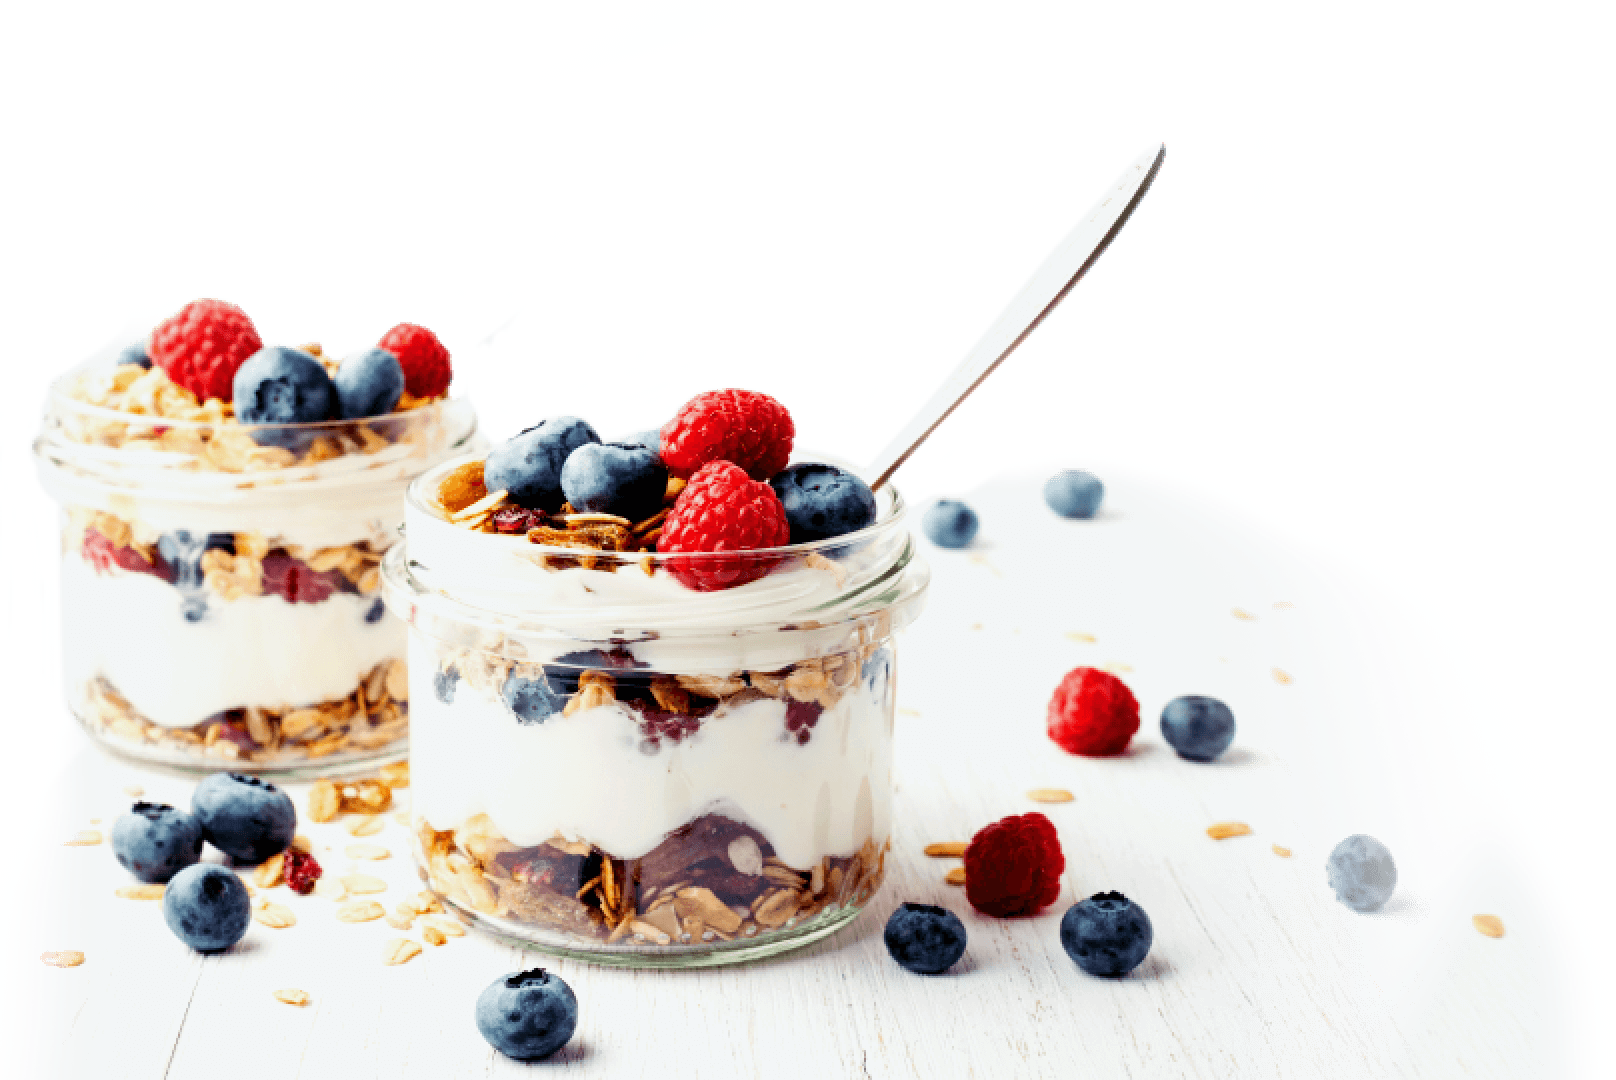
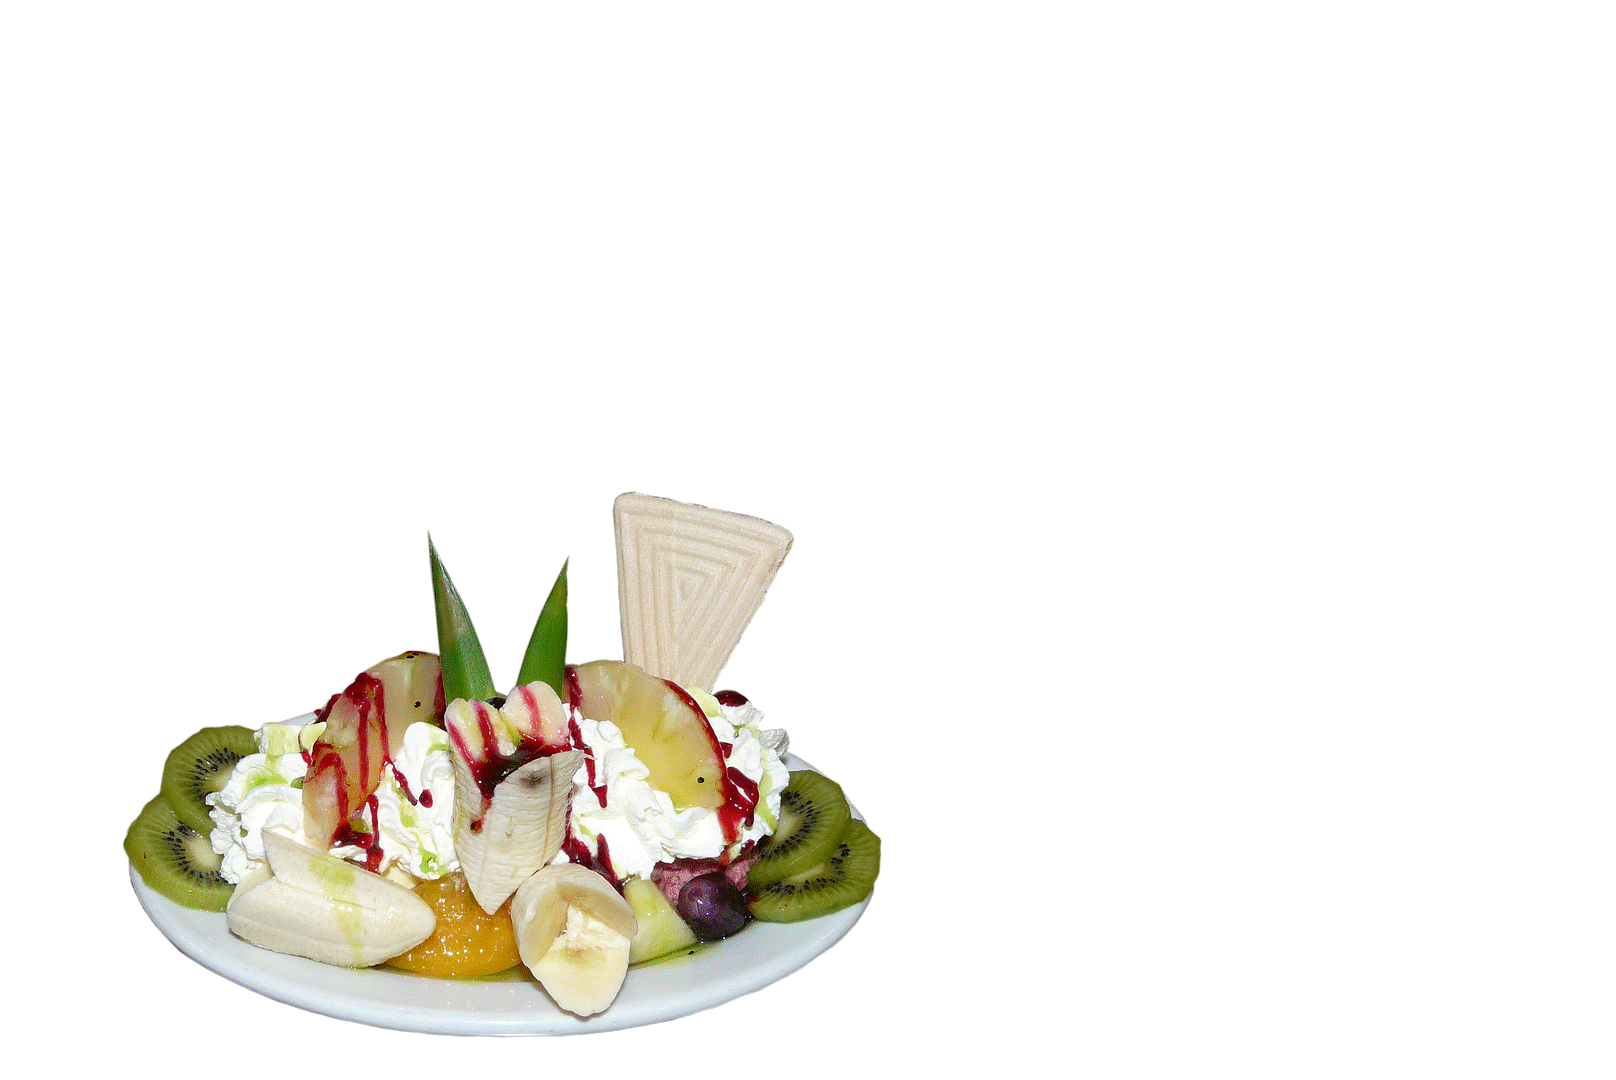
filters

diff --git a/src/app/planner/plannercreate/plannercreate.component.html b/src/app/planner/plannercreate/plannercreate.component.html
@@ -252,7 +252,7 @@
              <div class="submit-recipe-form" style="text-align:left; padding-bottom:10px;  background-color: #f8f6f5;">
                 <div style='text-align:right;'>
                     <a class="copy-button" (click)="downloadplan()"><i class="fa fa-download"></i> Download PDF</a>
-                   &nbsp; <a style="display:none" class="copy-button" (click)="getIngredientsList()"><i class="fa fa-download"></i> Ingredients List</a>
+                   &nbsp; <a  class="copy-button" (click)="getIngredientsList()"><i class="fa fa-download"></i> Ingredients List</a>
                 </div>
 
                 <label for="title">Meal Plan Name</label>
@@ -379,7 +379,7 @@
        <div class="modal-header" style="border-bottom:0px;">
         <h4><b>Ingredients List</b></h4>
         <button type="button" class="close" data-dismiss="modal" aria-label="Close"
-            (click)="closeModal('popuppanel');" style="font-size:40px;color:#FFF;opacity:1">
+            (click)="closeModal('popuppanel');" style="font-size:40px;color:#000;opacity:1">
             <span aria-hidden="true">&times;</span>
         </button>
         </div>

diff --git a/src/app/planner/plannercreate/plannercreate.component.ts b/src/app/planner/plannercreate/plannercreate.component.ts
@@ -67,7 +67,7 @@ export class PlannercreateComponent implements OnInit {
 this.loadedPlan = false;
 		window.addEventListener("scroll", this.scrollFunc);
 		this.getNutrientsMaxMin(); 
-
+		
 		this.searchparam['q'] = "";
 //		this.addRecipeImage = "assets/images/placement_addrecipes@2x.png"
 this.addRecipeImage = "assets/images/add-recipe.png"
@@ -1298,7 +1298,7 @@ console.log(params);
 		{
 			this.mineralsLabelsList.push({"name":constants.minerals[m], "selected":false, "unit":"",  "min":"", "max":"", "t_min":"", "t_max":""})
 		}
-
+		this.loadNutrientsMaxMin();
 	}
 	searchFilters()
 	{

diff --git a/src/app/planner/plannercreate/plannercreate.component.scss b/src/app/planner/plannercreate/plannercreate.component.scss
@@ -1435,3 +1435,24 @@ background-color: $orange;
   -ms-transform: rotate(45deg);
   transform: rotate(45deg);
 }
+
+
+.paddinglr0
+{
+  padding-left: 0;
+  padding-right: 0;
+}
+.mineral-input {
+  width: 90%;
+  background: transparent;
+  border: 0;
+  border-bottom: 2px solid #CCC;
+  text-align: center;
+  outline: 0;
+}
+.maxmin {
+  font-size: 12px;
+  font-style: italic;
+  color: #CCC;
+  display:none;
+}

diff --git a/src/app/landing1/landing1.component.html b/src/app/landing1/landing1.component.html
@@ -93,9 +93,9 @@
             </div>
         </section>
   
-        <div class="corner-image bg-corner-tabs wow animated zoomIn">
+        <!--<div class="corner-image bg-corner-tabs wow animated zoomIn">
             <img src="assets/images/bg-corner-tomato.png" alt="image"/>
-        </div>
+        </div>-->
       </div>
    </div>
 </div>

diff --git a/src/app/recipes/recipes.component.scss b/src/app/recipes/recipes.component.scss
@@ -475,4 +475,5 @@ color:#FFF;
   font-size: 12px;
   font-style: italic;
   color: #CCC;
+  display:none;
 }
